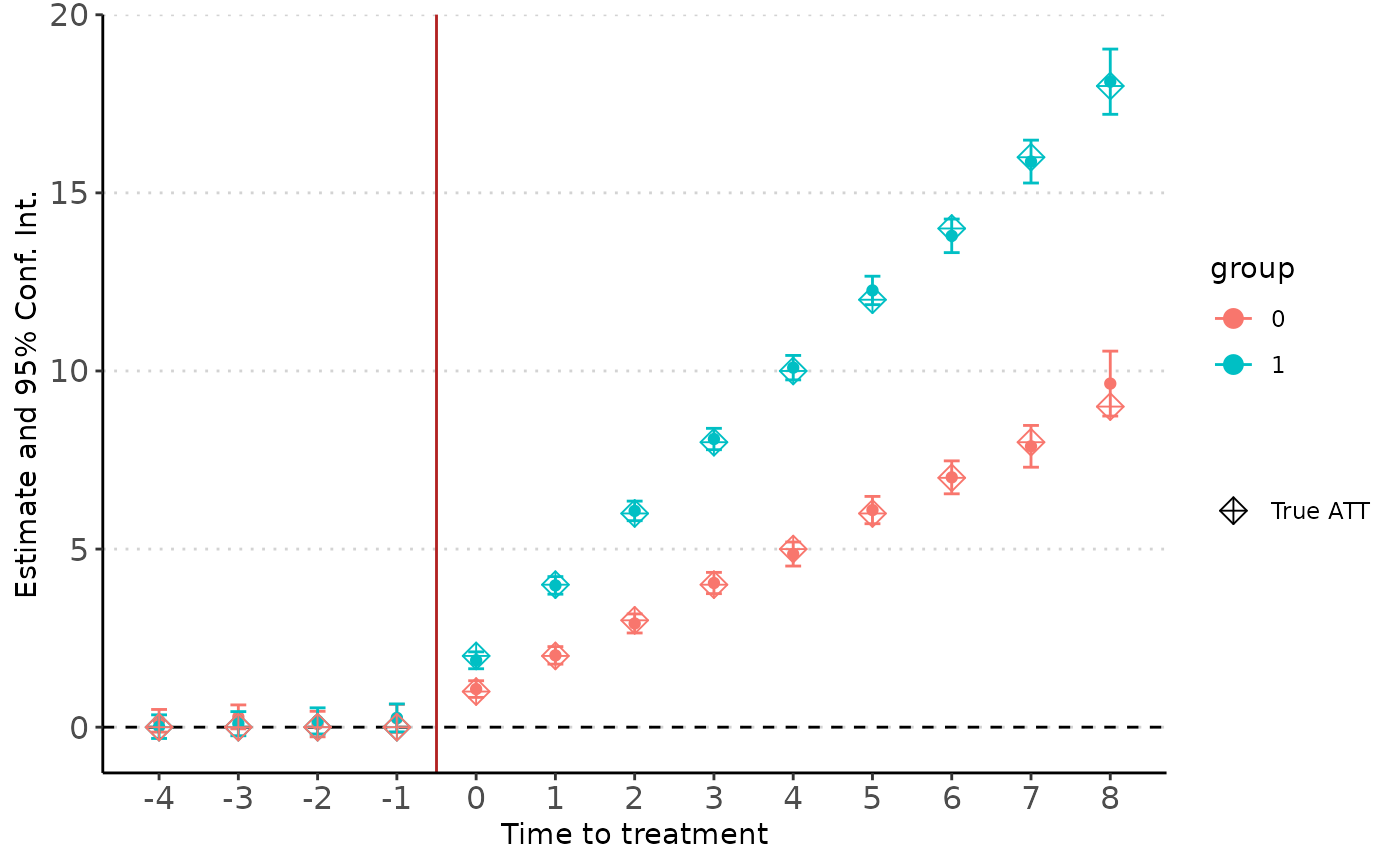
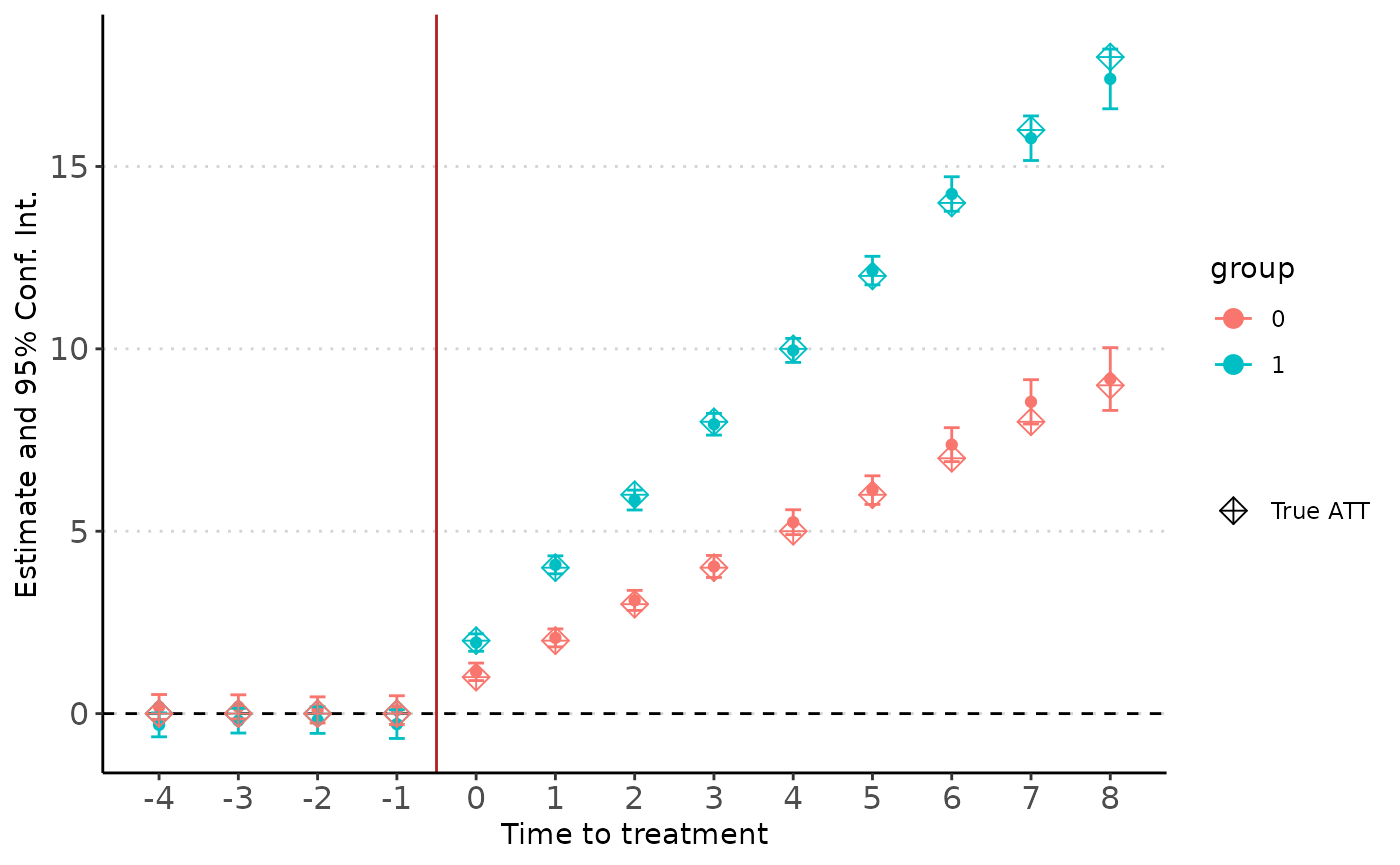
Built site for didImputation: 0.0.4@336cb43

diff --git a/articles/Getting_started.html b/articles/Getting_started.html
@@ -175,33 +175,33 @@
 <span class="co">#&gt; Counterfactual model:  y ~ 0 | i + t </span>
 <span class="co">#&gt; Number of cohorts:  4 </span>
 <span class="co">#&gt; Observations: 12000 </span>
-<span class="co">#&gt; |-Treated:    5477 </span>
-<span class="co">#&gt; |-Untreated:  6523 </span>
+<span class="co">#&gt; |-Treated:    5677 </span>
+<span class="co">#&gt; |-Untreated:  6323 </span>
 <span class="co">#&gt;       Estimate Std. Error t value Pr(&gt;|t|) </span>
-<span class="co">#&gt; k::-3  0.031   0.147       0.213  0.831    </span>
-<span class="co">#&gt; k::-2 -0.033   0.164      -0.199  0.842    </span>
-<span class="co">#&gt; k::-1 -0.057   0.189      -0.301  0.763    </span>
-<span class="co">#&gt; k::0   0.893   0.076      11.687  &lt;0.001***</span>
-<span class="co">#&gt; k::1   1.966   0.084      23.347  &lt;0.001***</span>
-<span class="co">#&gt; k::2   2.952   0.103      28.543  &lt;0.001***</span>
-<span class="co">#&gt; k::3   3.930   0.130      30.166  &lt;0.001***</span>
-<span class="co">#&gt; k::4   4.915   0.185      26.607  &lt;0.001***</span>
+<span class="co">#&gt; k::-3 -0.128   0.142      -0.904  0.366    </span>
+<span class="co">#&gt; k::-2 -0.339   0.162      -2.095  0.036**  </span>
+<span class="co">#&gt; k::-1 -0.060   0.193      -0.313  0.755    </span>
+<span class="co">#&gt; k::0   1.061   0.075      14.239  &lt;0.001***</span>
+<span class="co">#&gt; k::1   2.106   0.084      25.113  &lt;0.001***</span>
+<span class="co">#&gt; k::2   3.108   0.103      30.227  &lt;0.001***</span>
+<span class="co">#&gt; k::3   4.262   0.130      32.786  &lt;0.001***</span>
+<span class="co">#&gt; k::4   5.338   0.175      30.433  &lt;0.001***</span>
 <span class="co">#&gt; ---</span>
 <span class="co">#&gt; Signif. Code: 0 '***' 0.01 '**' 0.05 '*' 0.1 '' 1 </span>
 <span class="co">#&gt; Wald stats for pre-trends:</span>
-<span class="co">#&gt; Wald (joint nullity): stat = 0.15983, p = 0.92337, on 3 and 6,514 DoF, VCOV: Clustered (i).</span></code></pre></div>
+<span class="co">#&gt; Wald (joint nullity): stat = 4.74668, p = 0.002614, on 3 and 6,314 DoF, VCOV: Clustered (i).</span></code></pre></div>
 <p>You can extract the coefficients table if you want to build your own plot or table.</p>
 <div class="sourceCode" id="cb6"><pre class="downlit sourceCode r">
 <code class="sourceCode R"><span class="va">est</span><span class="op">$</span><span class="va">coeftable</span>
 <span class="co">#&gt;          Estimate Std. Error    t value      Pr(&gt;|t|)</span>
-<span class="co">#&gt; k::-3  0.03131603 0.14710617  0.2128804  8.314419e-01</span>
-<span class="co">#&gt; k::-2 -0.03261878 0.16371543 -0.1992407  8.420947e-01</span>
-<span class="co">#&gt; k::-1 -0.05698903 0.18935428 -0.3009651  7.634724e-01</span>
-<span class="co">#&gt; k::0   0.89306213 0.07641660 11.6867564  1.489678e-31</span>
-<span class="co">#&gt; k::1   1.96622143 0.08421827 23.3467325 1.487620e-120</span>
-<span class="co">#&gt; k::2   2.95247943 0.10344120 28.5425872 3.471812e-179</span>
-<span class="co">#&gt; k::3   3.92999807 0.13027754 30.1663518 6.547043e-200</span>
-<span class="co">#&gt; k::4   4.91528399 0.18473964 26.6065480 5.701454e-156</span></code></pre></div>
+<span class="co">#&gt; k::-3 -0.12811800  0.1416524 -0.9044533  3.658641e-01</span>
+<span class="co">#&gt; k::-2 -0.33947383  0.1620211 -2.0952452  3.627474e-02</span>
+<span class="co">#&gt; k::-1 -0.06028321  0.1927641 -0.3127304  7.545181e-01</span>
+<span class="co">#&gt; k::0   1.06148784  0.0745491 14.2387753  5.264153e-46</span>
+<span class="co">#&gt; k::1   2.10591886  0.0838567 25.1133050 3.559124e-139</span>
+<span class="co">#&gt; k::2   3.10832140  0.1028326 30.2270071 1.046467e-200</span>
+<span class="co">#&gt; k::3   4.26186715  0.1299922 32.7855726 9.454472e-236</span>
+<span class="co">#&gt; k::4   5.33815489  0.1754071 30.4329381 2.014801e-203</span></code></pre></div>
 <p>Finally, we can plot the coefficients from the fully dynamic model using the <code>didplot</code> function (note that you can choose the confidence interval level to report). The results are very close to the true effects:</p>
 <div class="sourceCode" id="cb7"><pre class="downlit sourceCode r">
 <code class="sourceCode R"><span class="fu"><a href="../reference/didplot.html">didplot</a></span><span class="op">(</span><span class="va">est</span><span class="op">)</span> <span class="op">+</span>
@@ -224,21 +224,21 @@
 <span class="co">#&gt; Counterfactual model:  y ~ 0 | i + t </span>
 <span class="co">#&gt; Number of cohorts:  4 </span>
 <span class="co">#&gt; Observations: 12000 </span>
-<span class="co">#&gt; |-Treated:    5477 </span>
-<span class="co">#&gt; |-Untreated:  6523 </span>
+<span class="co">#&gt; |-Treated:    5677 </span>
+<span class="co">#&gt; |-Untreated:  6323 </span>
 <span class="co">#&gt;       Estimate Std. Error t value Pr(&gt;|t|) </span>
-<span class="co">#&gt; k::-3  0.031   0.147       0.213  0.831    </span>
-<span class="co">#&gt; k::-2 -0.033   0.164      -0.199  0.842    </span>
-<span class="co">#&gt; k::-1 -0.057   0.189      -0.301  0.763    </span>
-<span class="co">#&gt; k::0   0.893   0.076      11.687  &lt;0.001***</span>
-<span class="co">#&gt; k::1   1.966   0.084      23.347  &lt;0.001***</span>
-<span class="co">#&gt; k::2   2.952   0.103      28.543  &lt;0.001***</span>
-<span class="co">#&gt; k::3   3.930   0.130      30.166  &lt;0.001***</span>
-<span class="co">#&gt; k::4   4.915   0.185      26.607  &lt;0.001***</span>
+<span class="co">#&gt; k::-3 -0.128   0.142      -0.904  0.366    </span>
+<span class="co">#&gt; k::-2 -0.339   0.162      -2.095  0.036**  </span>
+<span class="co">#&gt; k::-1 -0.060   0.193      -0.313  0.755    </span>
+<span class="co">#&gt; k::0   1.061   0.075      14.239  &lt;0.001***</span>
+<span class="co">#&gt; k::1   2.106   0.084      25.113  &lt;0.001***</span>
+<span class="co">#&gt; k::2   3.108   0.103      30.227  &lt;0.001***</span>
+<span class="co">#&gt; k::3   4.262   0.130      32.786  &lt;0.001***</span>
+<span class="co">#&gt; k::4   5.338   0.175      30.433  &lt;0.001***</span>
 <span class="co">#&gt; ---</span>
 <span class="co">#&gt; Signif. Code: 0 '***' 0.01 '**' 0.05 '*' 0.1 '' 1 </span>
 <span class="co">#&gt; Wald stats for pre-trends:</span>
-<span class="co">#&gt; Wald (joint nullity): stat = 0.15983, p = 0.92337, on 3 and 6,514 DoF, VCOV: Clustered (i).</span></code></pre></div>
+<span class="co">#&gt; Wald (joint nullity): stat = 4.74668, p = 0.002614, on 3 and 6,314 DoF, VCOV: Clustered (i).</span></code></pre></div>
 </div>
 <div id="including-other-fixed-effects" class="section level2">
 <h2 class="hasAnchor">
@@ -262,21 +262,21 @@
 <span class="co">#&gt; Counterfactual model:  y ~ 0 | i + t + hdfefactor </span>
 <span class="co">#&gt; Number of cohorts:  4 </span>
 <span class="co">#&gt; Observations: 12000 </span>
-<span class="co">#&gt; |-Treated:    5598 </span>
-<span class="co">#&gt; |-Untreated:  6402 </span>
+<span class="co">#&gt; |-Treated:    5437 </span>
+<span class="co">#&gt; |-Untreated:  6563 </span>
 <span class="co">#&gt;       Estimate Std. Error t value Pr(&gt;|t|) </span>
-<span class="co">#&gt; k::-3 -0.073   0.142      -0.510  0.61     </span>
-<span class="co">#&gt; k::-2 -0.078   0.158      -0.492  0.622    </span>
-<span class="co">#&gt; k::-1 -0.063   0.189      -0.336  0.737    </span>
-<span class="co">#&gt; k::0   0.884   0.076      11.580  &lt;0.001***</span>
-<span class="co">#&gt; k::1   1.855   0.084      22.141  &lt;0.001***</span>
-<span class="co">#&gt; k::2   2.831   0.103      27.582  &lt;0.001***</span>
-<span class="co">#&gt; k::3   3.870   0.131      29.651  &lt;0.001***</span>
-<span class="co">#&gt; k::4   4.683   0.189      24.781  &lt;0.001***</span>
+<span class="co">#&gt; k::-3 -0.035   0.140      -0.252  0.801    </span>
+<span class="co">#&gt; k::-2 -0.096   0.157      -0.611  0.541    </span>
+<span class="co">#&gt; k::-1 -0.010   0.181      -0.053  0.958    </span>
+<span class="co">#&gt; k::0   0.992   0.076      13.032  &lt;0.001***</span>
+<span class="co">#&gt; k::1   2.068   0.084      24.596  &lt;0.001***</span>
+<span class="co">#&gt; k::2   3.073   0.101      30.289  &lt;0.001***</span>
+<span class="co">#&gt; k::3   4.065   0.131      31.083  &lt;0.001***</span>
+<span class="co">#&gt; k::4   5.182   0.183      28.270  &lt;0.001***</span>
 <span class="co">#&gt; ---</span>
 <span class="co">#&gt; Signif. Code: 0 '***' 0.01 '**' 0.05 '*' 0.1 '' 1 </span>
 <span class="co">#&gt; Wald stats for pre-trends:</span>
-<span class="co">#&gt; Wald (joint nullity): stat = 0.114351, p = 0.951735, on 3 and 6,354 DoF, VCOV: Clustered (i).</span></code></pre></div>
+<span class="co">#&gt; Wald (joint nullity): stat = 0.420504, p = 0.738298, on 3 and 6,515 DoF, VCOV: Clustered (i).</span></code></pre></div>
 </div>
 <div id="including-continuous-controls" class="section level2">
 <h2 class="hasAnchor">
@@ -300,28 +300,28 @@
 <span class="co">#&gt; Counterfactual model:  y ~ x1 | i + t </span>
 <span class="co">#&gt; Number of cohorts:  8 </span>
 <span class="co">#&gt; Observations: 20000 </span>
-<span class="co">#&gt; |-Treated:    9533 </span>
-<span class="co">#&gt; |-Untreated:  10467 </span>
+<span class="co">#&gt; |-Treated:    9650 </span>
+<span class="co">#&gt; |-Untreated:  10350 </span>
 <span class="co">#&gt;       Estimate Std. Error t value Pr(&gt;|t|) </span>
-<span class="co">#&gt; k::-5 -0.102   0.101       -1.012 0.312    </span>
-<span class="co">#&gt; k::-4  0.054   0.103        0.521 0.602    </span>
-<span class="co">#&gt; k::-3  0.056   0.118        0.479 0.632    </span>
-<span class="co">#&gt; k::-2 -0.021   0.131       -0.161 0.872    </span>
-<span class="co">#&gt; k::-1  0.034   0.142        0.241 0.81     </span>
-<span class="co">#&gt; x1     1.973   0.011      173.689 &lt;0.001***</span>
-<span class="co">#&gt; k::0   0.984   0.063       15.708 &lt;0.001***</span>
-<span class="co">#&gt; k::1   1.959   0.067       29.437 &lt;0.001***</span>
-<span class="co">#&gt; k::2   2.935   0.076       38.456 &lt;0.001***</span>
-<span class="co">#&gt; k::3   4.040   0.082       49.021 &lt;0.001***</span>
-<span class="co">#&gt; k::4   5.027   0.099       50.719 &lt;0.001***</span>
-<span class="co">#&gt; k::5   5.902   0.111       53.000 &lt;0.001***</span>
-<span class="co">#&gt; k::6   6.966   0.130       53.573 &lt;0.001***</span>
-<span class="co">#&gt; k::7   7.975   0.169       47.129 &lt;0.001***</span>
-<span class="co">#&gt; k::8   9.015   0.243       37.130 &lt;0.001***</span>
+<span class="co">#&gt; k::-5 0.099    0.098        1.011 0.312    </span>
+<span class="co">#&gt; k::-4 0.018    0.103        0.171 0.864    </span>
+<span class="co">#&gt; k::-3 0.042    0.116        0.361 0.718    </span>
+<span class="co">#&gt; k::-2 0.078    0.130        0.596 0.552    </span>
+<span class="co">#&gt; k::-1 0.127    0.145        0.881 0.378    </span>
+<span class="co">#&gt; x1    1.995    0.011      178.710 &lt;0.001***</span>
+<span class="co">#&gt; k::0  0.998    0.063       15.923 &lt;0.001***</span>
+<span class="co">#&gt; k::1  1.918    0.068       28.387 &lt;0.001***</span>
+<span class="co">#&gt; k::2  2.924    0.075       39.046 &lt;0.001***</span>
+<span class="co">#&gt; k::3  3.952    0.085       46.660 &lt;0.001***</span>
+<span class="co">#&gt; k::4  4.869    0.096       50.468 &lt;0.001***</span>
+<span class="co">#&gt; k::5  5.835    0.113       51.616 &lt;0.001***</span>
+<span class="co">#&gt; k::6  6.773    0.135       50.023 &lt;0.001***</span>
+<span class="co">#&gt; k::7  7.707    0.175       44.056 &lt;0.001***</span>
+<span class="co">#&gt; k::8  8.545    0.244       34.997 &lt;0.001***</span>
 <span class="co">#&gt; ---</span>
 <span class="co">#&gt; Signif. Code: 0 '***' 0.01 '**' 0.05 '*' 0.1 '' 1 </span>
 <span class="co">#&gt; Wald stats for pre-trends:</span>
-<span class="co">#&gt; Wald (joint nullity): stat = 5,052.2, p &lt; 2.2e-16, on 6 and 10,451 DoF, VCOV: Clustered (i).</span></code></pre></div>
+<span class="co">#&gt; Wald (joint nullity): stat = 5,329.2, p &lt; 2.2e-16, on 6 and 10,334 DoF, VCOV: Clustered (i).</span></code></pre></div>
 </div>
 <div id="heterogeneity" class="section level2">
 <h2 class="hasAnchor">
